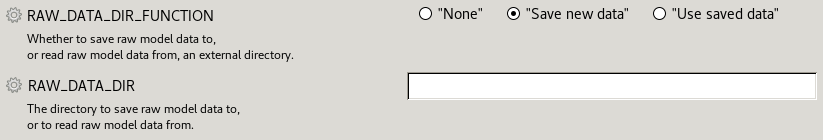
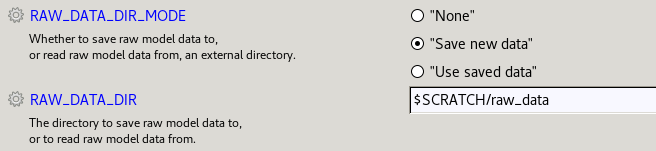
Renaming variables

diff --git a/CMEW/app/configure_standardise/bin/create_request_file.py b/CMEW/app/configure_standardise/bin/create_request_file.py
@@ -110,7 +110,7 @@ def create_request():
     }
     request["misc"] = dict(defaults["misc"])
     request["conversion"] = dict(defaults["conversion"])
-    if os.environ["RAW_DATA_DIR_FUNCTION"] == "Use saved data":
+    if os.environ["RAW_DATA_DIR_MODE"] == "use_saved":
         request["conversion"]["skip_extract"] = "True"
     return request
 

diff --git a/CMEW/app/configure_standardise/bin/test_create_request_file.py b/CMEW/app/configure_standardise/bin/test_create_request_file.py
@@ -28,7 +28,7 @@ def test_create_request(monkeypatch):
     mip_table_dir = "~cdds/etc/mip_tables/GCModelDev/0.0.25"
     stream_id = "apm"
 
-    monkeypatch.setenv("RAW_DATA_DIR_FUNCTION", "Use saved data")
+    monkeypatch.setenv("RAW_DATA_DIR_MODE", "use_saved")
     monkeypatch.setenv("REQUEST_DEFAULTS_PATH", str(request_defaults_path))
     monkeypatch.setenv("START_YEAR", str(start_year))
     monkeypatch.setenv("NUMBER_OF_YEARS", str(number_of_years))

diff --git a/doc/source/user_guide/reusing_raw_data.rst b/doc/source/user_guide/reusing_raw_data.rst
@@ -13,13 +13,13 @@ This functionality is controlled by two variables in the `rose-suite.conf` file:
 
 .. image:: images/raw_data_dir.png
    :alt: An image of the Rose GUI showing the template variables
-         "RAW_DATA_DIR_FUNCTION" and "RAW_DATA_DIR"
+         "RAW_DATA_DIR_MODE" and "RAW_DATA_DIR"
    :width: 600px
 
 To copy the data, the user must run |CMEW| specifying the location to which to save the files,
 e.g.::
 
-    RAW_DATA_DIR_FUNCTION="Save new data"
+    RAW_DATA_DIR_MODE="Save new data"
     RAW_DATA_DIR="$SCRATCH/raw_data"
 
 The raw data files will be stored in subdirectories named by suite ID.
@@ -31,7 +31,7 @@ The raw data files will be stored in subdirectories named by suite ID.
 In future runs, to avoid extracting the same data,
 specify the same location when skipping the extract from MASS step::
 
-    RAW_DATA_DIR_FUNCTION="Use saved data"
+    RAW_DATA_DIR_MODE="Use saved data"
     RAW_DATA_DIR="$SCRATCH/raw_data"
 
 .. note::